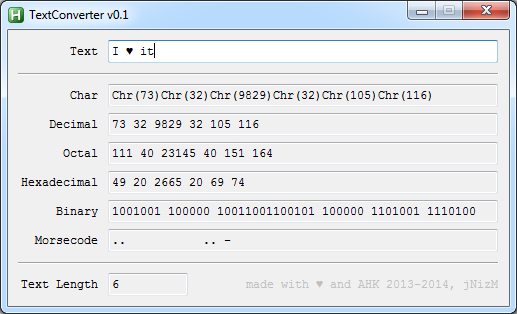
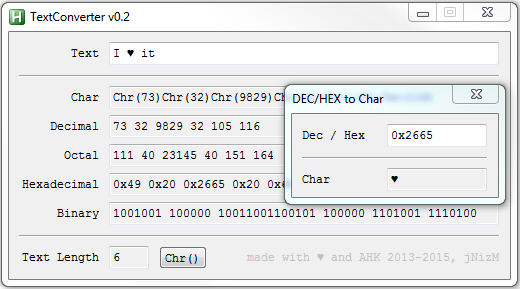
Update to v0.2
Fix bugs
Improved code
Removed Morsecode
Added Dec/Hex to Char
Update README
Update Screenshot
Changed License

diff --git a/README.md b/README.md
@@ -3,18 +3,19 @@ Convert text via AutoHotkey
 
   
 ## Features
-* Convert Text to: Char, Decimal, Octal, Hexadecimal, Binary, Morsecode
+* Convert Text to: Char, Decimal, Octal, Hexadecimal, Binary
 
 ## Screenshot
 ![Screenshot](Screenshot.png)
 
 
 ## Info
-* Version: v0.1
+* Version: v0.2
 * URL: [AHK Thread](http://ahkscript.org/boards/viewtopic.php?f=6&t=133)
 
 
 ## Changelog
+* 0.2 | Fixed bugs, Improved code, Removed Morsecode, Added Dec/Hex to Char
 * 0.1 | First Release
 
 
@@ -25,4 +26,4 @@ Convert text via AutoHotkey
 
   
 ## Copyright and License
-[WTFPL License](LICENSE)
+[Unlicense](LICENSE)
